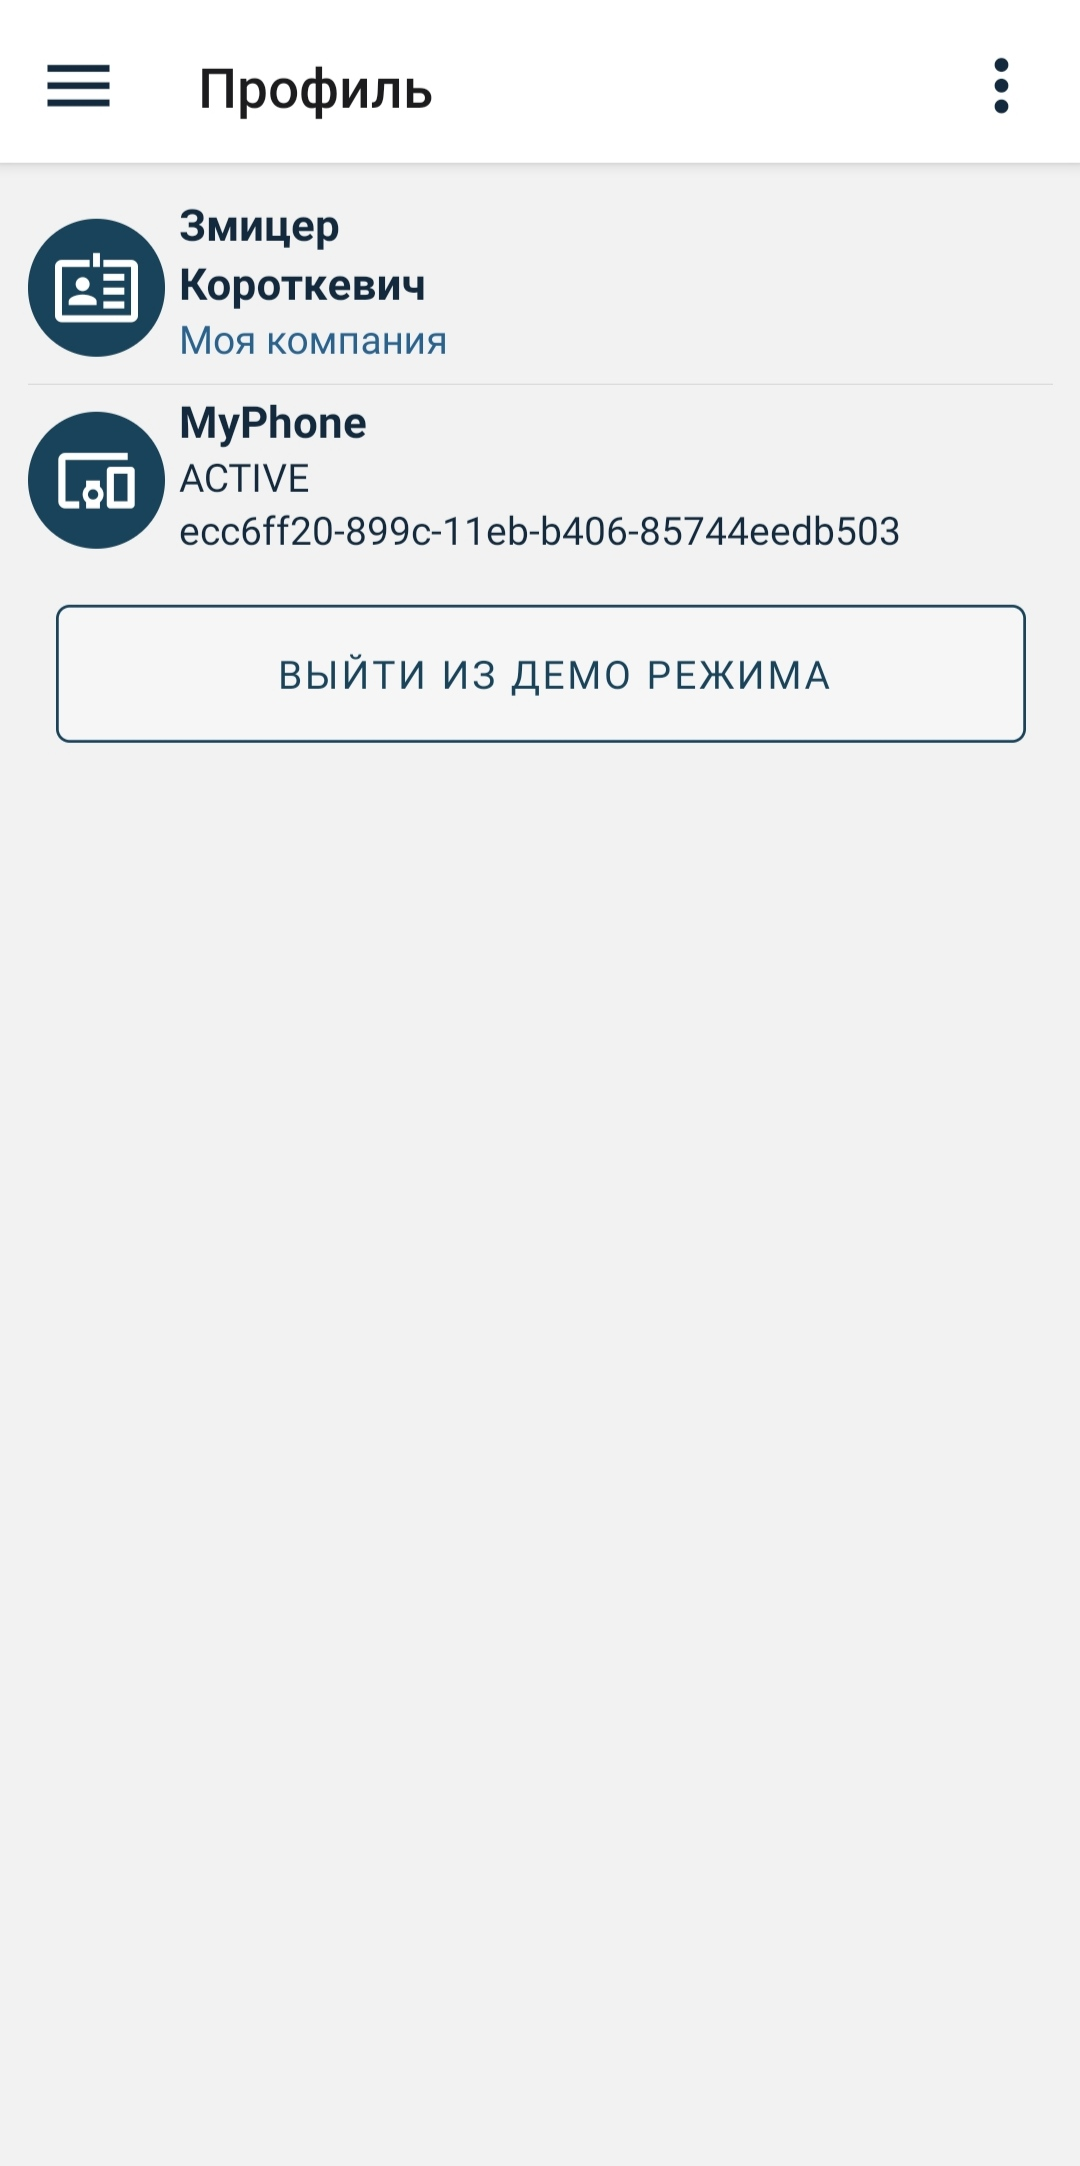
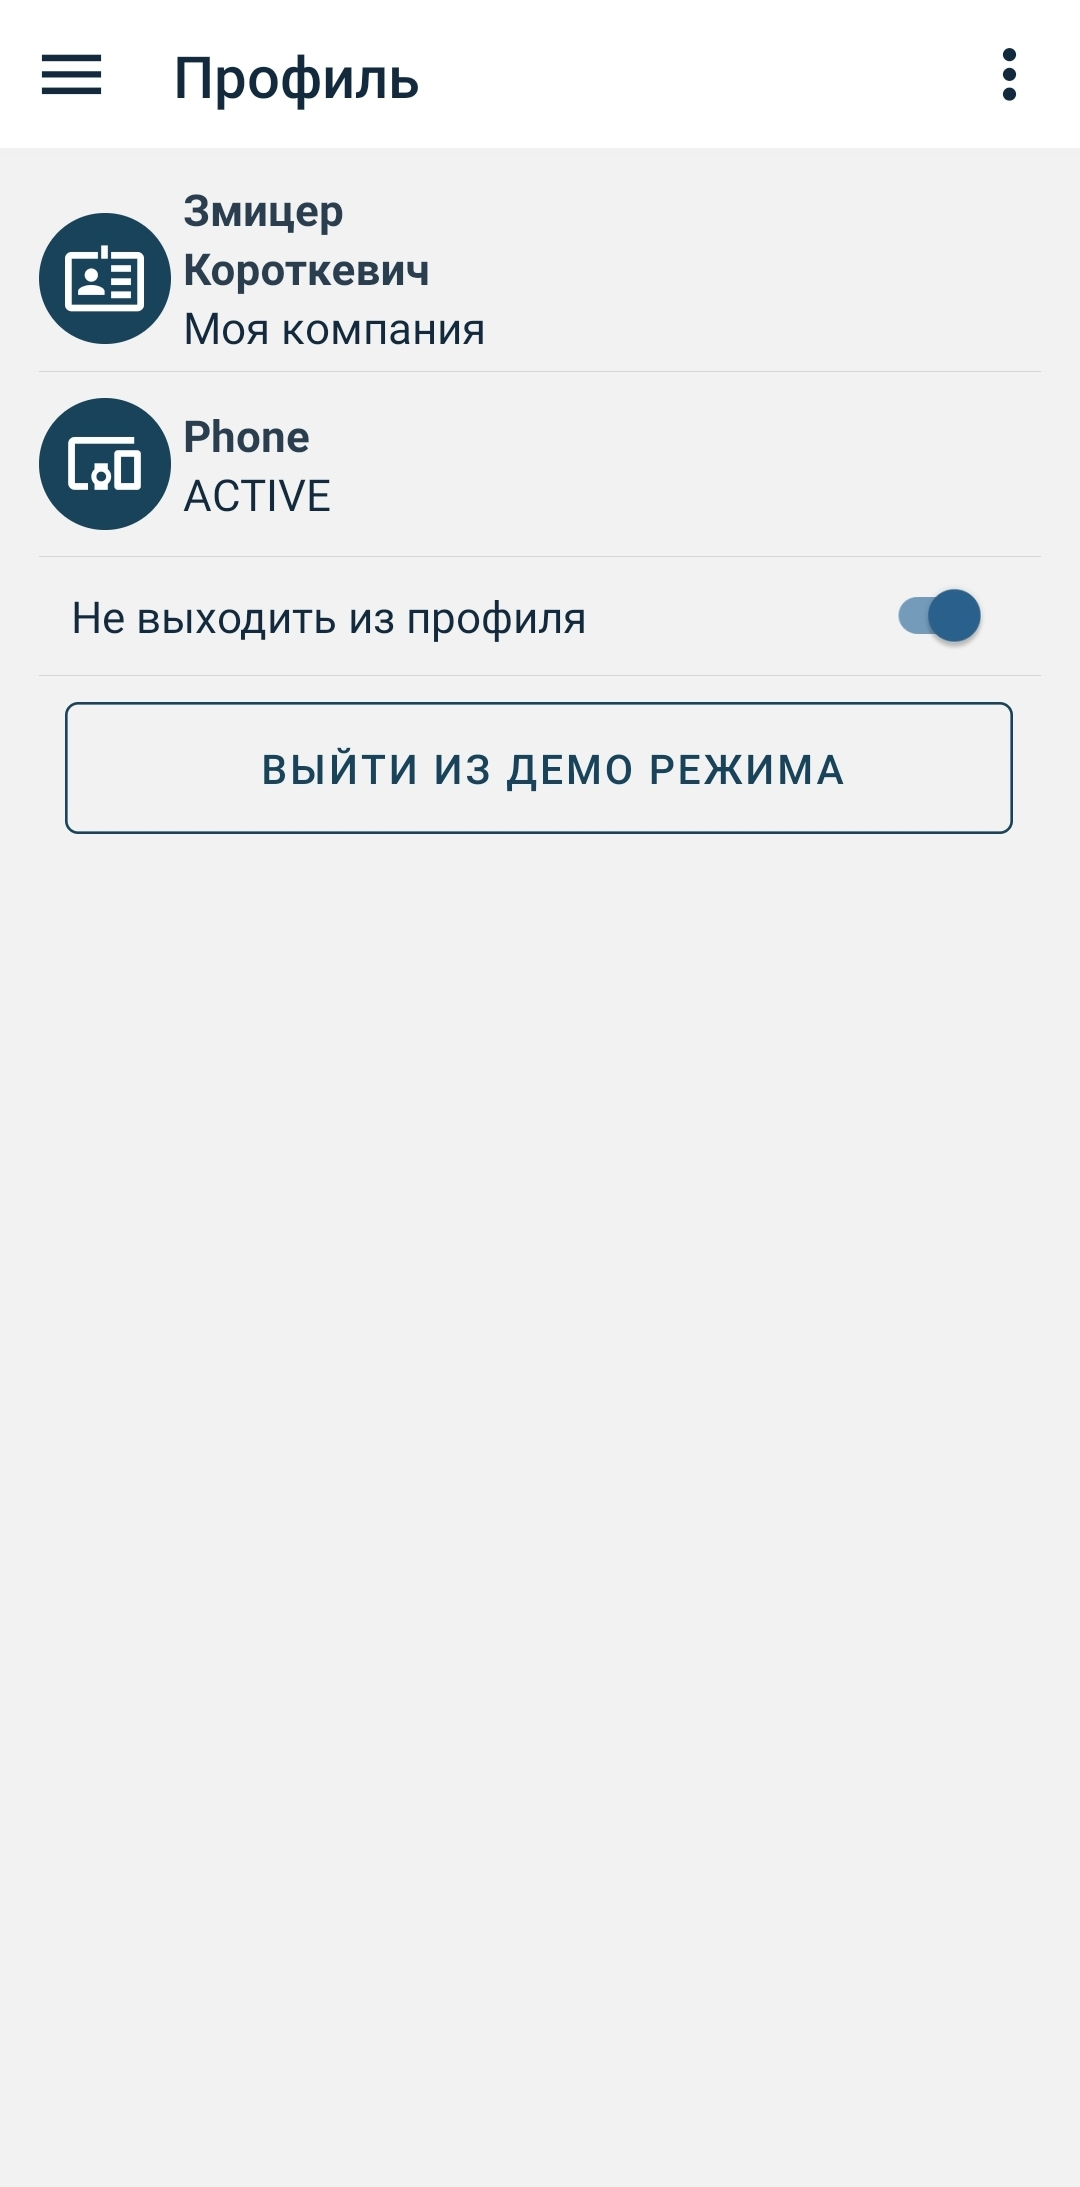
changes docs

diff --git a/docs/gdmn-app-trade-agents/docs/README.md b/docs/gdmn-app-trade-agents/docs/README.md
@@ -526,25 +526,20 @@
  
   Для этого нужно выбрать необходимую заявку из списка предыдущих заявок, открыть её и выбрать пункт из меню " **≡** " *"Копировать заявку"*. После чего произойдет переход на новую скопированную заявку (понять, что это копия можно по вновь появившимся инструментам в верхней части экрана).
 
-<img src="img/3.Orders/3.PreviousOrders.jpg" alt="drawing" height="400"/>
-<img src="img/3.Orders/3.PreviousOrdersOrderItself.jpg" alt="drawing" height="400"/>
-<img src="img/3.Orders/3.CopyOrder.jpg" alt="drawing" height="400"/>
-<img src="img/3.Orders/3.CopyOrderTwo.jpg" alt="drawing" height="400"/>
+<img src="img/3.Orders/3.PreviousOrders.jpg" alt="drawing" height="400"/> <img src="img/3.Orders/3.PreviousOrdersOrderItself.jpg" alt="drawing" height="400"/> <img src="img/3.Orders/3.CopyOrder.jpg" alt="drawing" height="400"/> <img src="img/3.Orders/3.CopyOrderTwo.jpg" alt="drawing" height="400"/>
 
 Новую заявку можно редактировать:
 - изменить дату (через нажатие на шапку документа или используя меню " **≡** " *Редактировать данные*)
 
 - изменить количество и вид тары. 
 
-<img src="img/3.Orders/3.EditingOrder.jpg" alt="drawing" height="400"/>
-<img src="img/3.Orders/3.EditingOrder2.jpg" alt="drawing" height="400"/>
+<img src="img/3.Orders/3.EditingOrder.jpg" alt="drawing" height="400"/> <img src="img/3.Orders/3.EditingOrder2.jpg" alt="drawing" height="400"/>
 
-<img src="img/3.Orders/3.NewCopyOrders.jpg" alt="drawing" height="400"/>
-<img src="img/3.Orders/3.NewCopyOrderBeforeSending.jpg" alt="drawing" height="400"/>
+<img src="img/3.Orders/3.NewCopyOrders.jpg" alt="drawing" height="400"/> <img src="img/3.Orders/3.NewCopyOrderBeforeSending.jpg" alt="drawing" height="400"/>
 
 Переводим в статус **Готов к отправке** и продолжаем работать дальше подобным образом. После редакции всех нужных заявок отсылаем их на сервер.
 
- После ввода всех заявок и отправления на сервер, нужно синхронизировать данные через кнопку **Синхронизация**, чтобы получить ответ от Гедымина, узнать, успешно созданы заявки в Гедымине или отклонены.
+После ввода  и отправления на сервер всех заявок, нужно проверить получен ли ответ от Гедымина, узнать, успешно созданы заявки в Гедымине или отклонены.
 
 
 
@@ -589,7 +584,9 @@
 
 Если параметр **Не выходить из профиля** отключить, то при каждом новом открытии приложения нужно будет вводить данные пользователя.
 
-Также этот экран позволяет удалить все справочники и документы. Для этого необходимо нажать на иконку меню, расположенную в правом верхнем углу, и выбрать пункт **Удалить все справочники и документы**.
+Присутствует пункт меню **"Выйти и удалить все данные"**. Вызывает удаление всех данных на мобильном устройстве и выход из профиля.
+
+Также этот экран позволяет удалить все справочники и документы, . Для этого необходимо нажать на иконку меню, расположенную в правом верхнем углу, и выбрать пункт **Удалить все справочники и документы**.
 
 Также позволяет удалить настройки пользователя. Необходимо нажать на иконку меню " **≡** ", расположенную в правом верхнем углу, и выбрать пункт **Удалить настройки пользователя**.
 
